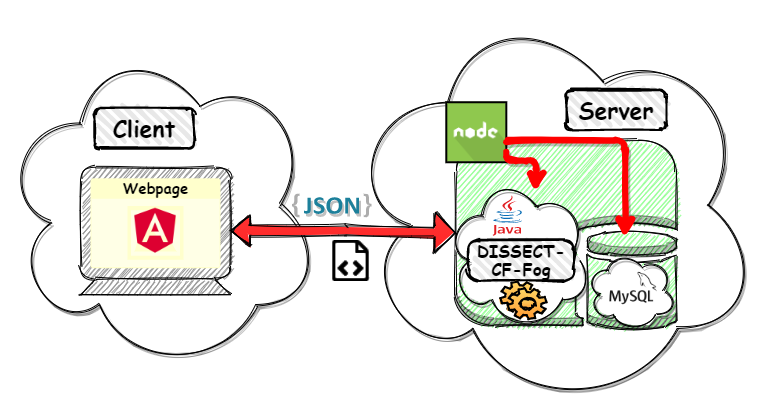
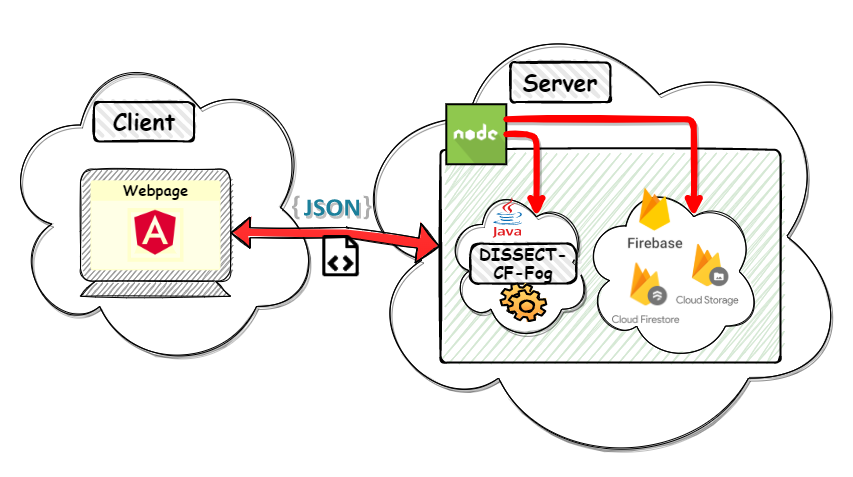
updating web application README

diff --git a/README.md b/README.md
@@ -22,7 +22,7 @@ For any inquiries please contact us by email to: **markusa (at) inf.u-szeged.hu*
 
 # DISSECT-CF-Fog-WebApp
 
-DISSECT-CF-Fog-WebApp is a full stack web application that will make the DISSECT-CF-Fog application available online. Registered users can run simulations in a more convenient configuration interface. They can view the results of the simulations, including a diagram depicting the task schedule and the logged partial results. The result diagram and configuration files can also be downloaded for further use. It is also possible to view the results of previous simulations.
-The backend part of the application uses the DISSECT-CF-Fog Java application and a MySQL database to serve the client running in the web browser. The client is built in Angular framework, while the server is built using Node.js.
+DISSECT-CF-Fog-WebApp is a full stack web application that will make the DISSECT-CF-Fog application available online. Registered users can run simulations in a more convenient configuration interface. They can view the results of the simulations, including a diagram depicting the task schedule, node and device energy diagrams and the logged partial results. The result diagram and configuration files can also be downloaded for further use. It is also possible to view the results of previous simulations.
+The backend part of the application executes the DISSECT-CF-Fog Java application with the generated XML's that the users have configured on the web application interface.The client is built in Angular framework, while the server is built using Node.js. The server is using Google's Firebase cloud platform, for database purposes it is using Cloud Firestore as a NoSQL database and Cloud Storage to store and serve user-generated contents.
 
 ![Alt webapp](./readme-assets/webapp-diagram.png)
